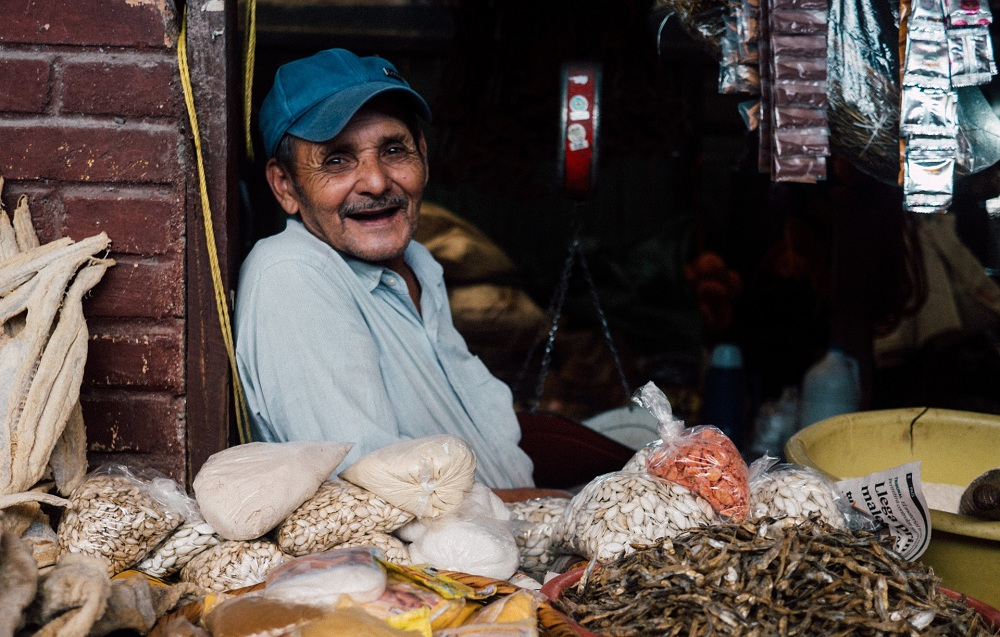
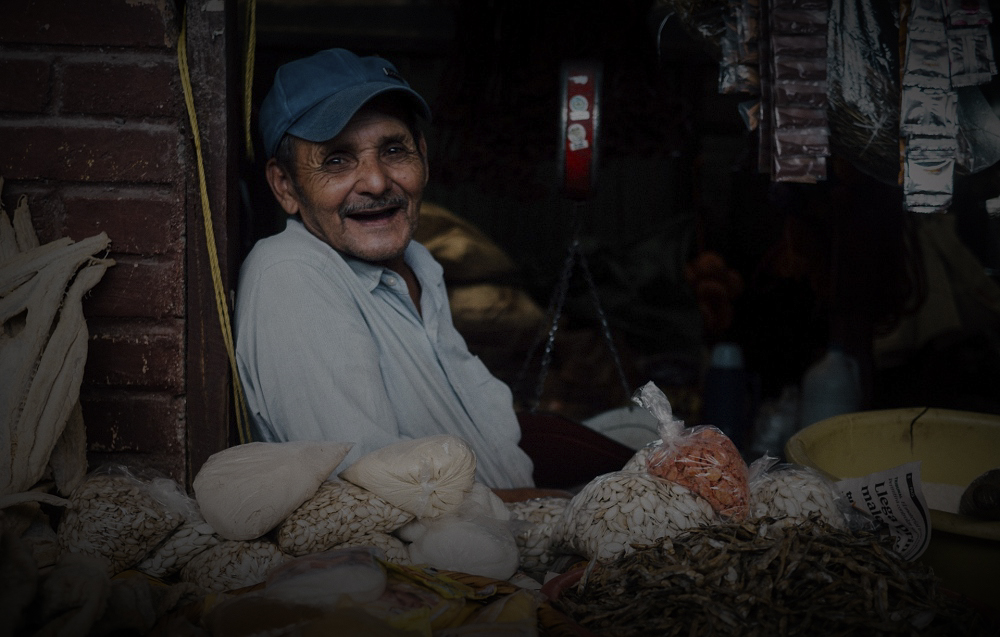
new

diff --git a/index.html b/index.html
@@ -15,7 +15,7 @@
 	<!-- meta character set -->
 	<meta charset="UTF-8">
 	<!-- Site Title -->
-	<title>Karma Shop</title>
+	<title>MUDI</title>
 	<!--
 		CSS
 		============================================= -->
@@ -52,10 +52,10 @@
 					<div class="collapse navbar-collapse offset" id="navbarSupportedContent">
 						<ul class="nav navbar-nav menu_nav ml-auto">
 							<li class="nav-item active"><a class="nav-link" href="index.html">UMKM</a></li>
-							<li class="nav-item active"><a class="nav-link" href="index.html">Investor</a></li>
-							<li class="nav-item active"><a class="nav-link" href="index.html">Cara Kerja</a></li>
-							<li class="nav-item active"><a class="nav-link" href="index.html">Tentang Kami</a></li>
-							<li class="nav-item active"><a class="nav-link" href="index.html">UMKM</a></li>
+							<li class="nav-item "><a class="nav-link" href="index.html">Investor</a></li>
+							<li class="nav-item "><a class="nav-link" href="index.html">Cara Kerja</a></li>
+							<li class="nav-item "><a class="nav-link" href="index.html">Tentang Kami</a></li>
+
 					</div>
 				</div>
 			</nav>
@@ -82,13 +82,11 @@
 						<div class="row single-slide align-items-center d-flex">
 							<div class="col-lg-5 col-md-6">
 								<div class="banner-content">
-									<h1>Nike New <br>Collection!</h1>
-									<p>Lorem ipsum dolor sit amet, consectetur adipisicing elit, sed do eiusmod tempor
-										incididunt ut labore et
-										dolore magna aliqua. Ut enim ad minim veniam, quis nostrud exercitation.</p>
+									<h1 class="text-light"> Jangan Takut<br>Untuk Memulai </h1>
+
 									<div class="add-bag d-flex align-items-center">
-										<a class="add-btn" href=""><span class="lnr lnr-cross"></span></a>
-										<span class="add-text text-uppercase">Add to Bag</span>
+										<a class="add-btn" href="login.html">></a>
+
 									</div>
 								</div>
 							</div>
